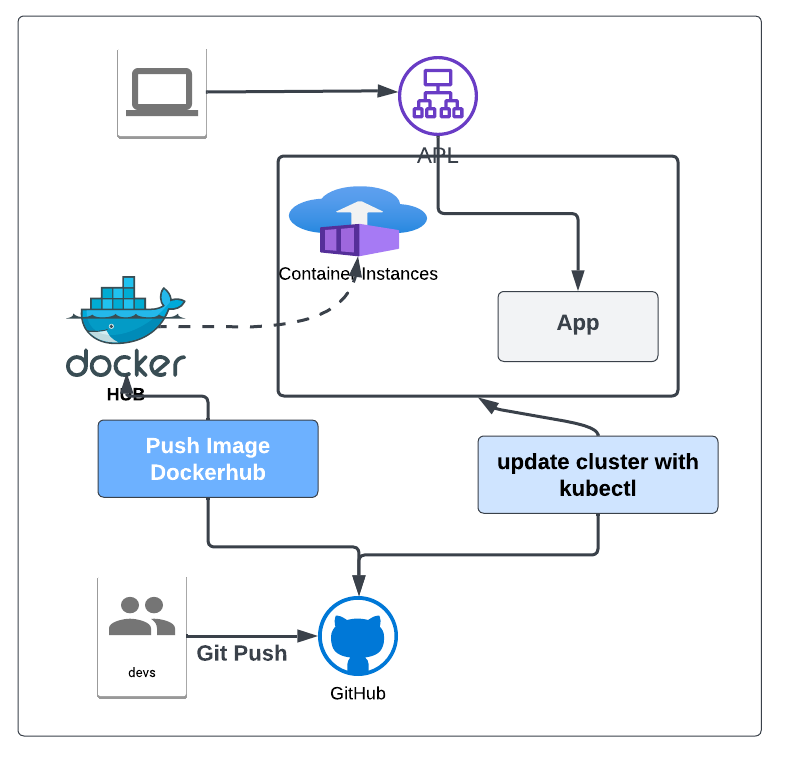
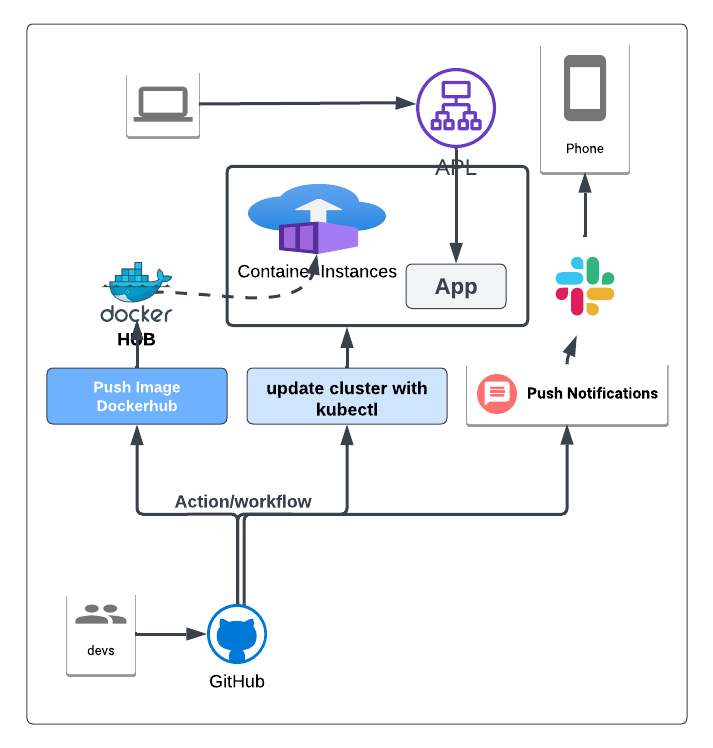
Test branch (#5)
* Destroy cluster

* Hot Fix

* Chore: ML model test

* Doc: Update project digram

* Doc: Update project digram

* Doc: Update project digram

* Workflow: rds infrastructure deployment

* Workflow: rds infrastructure deployment

* Workflow: rds infrastructure deployment

* Workflow: rds infrastructure deployment

* Terraform Hot fix

* Terraform Hot fix

* Terraform Hot fix

* Terraform Hot fix

* Terraform Hot fix

* Terraform rds fix

* Terraform rds fix

* Workflow: delete resources

* Workflow: delete resources

* Chore: Terraform resources validation

* Chore: Project description

* Makefile: testing command update

* Chore: application deployment

* Chore: deploy application

* Chore: deploy application

* chore: preview application url

* chore: preview application url

* chore: preview application url

* Chore: update deployment with version

* Chore: update deployment with version

* Doc: updated infrastructure diagram

* Chore: destroy infrastructure

* Chore: deploy infrastructure

* Chore: infrastructure deployment

* Chore: app deployment to eks

* Chore: update infrastructure

* Chore: update application

* quick fix

* hot fix

* Hot fix

---------

diff --git a/ml_app/app.py b/ml_app/app.py
@@ -2,9 +2,17 @@ from flask import Flask, request, jsonify
 from flask.logging import create_logger
 import logging
 
+
 import pandas as pd
 from sklearn.externals import joblib
 from sklearn.preprocessing import StandardScaler
+
+
+from dotenv import load_dotenv
+load_dotenv()
+
+import os
+VERSION = os.getenv("VERSION")
 
 app = Flask(__name__)
 LOG = create_logger(app)
@@ -20,7 +28,12 @@ def scale(payload):
 
 @app.route("/")
 def home():
-    html = f"<h3>Sklearn Prediction Home</h3>"
+    html = f"""
+    <div style="text-align:center; padding: 50px"> 
+    <h2>Sklearn Prediction Home Updated. </h2>
+    <h3 style="color:#808080"> Version:{VERSION}</h3>
+    </div>
+    """
     return html.format(format)
 
 @app.route("/predict", methods=['POST'])

diff --git a/ml_app/test_sample/test_sample.py b/ml_app/test_sample/test_sample.py
@@ -1,0 +1,7 @@
+# content of test_sample.py
+def func(x):
+    return x + 1
+
+
+def test_answer():
+    assert func(3) == 4

diff --git a/TaskReadme.md b/TaskReadme.md
@@ -49,7 +49,7 @@ To design a scalable and secure continuous delivery architecture for the full-st
         For monitoring, use Amazon CloudWatch to collect and visualize metrics for your application, database, and infrastructure. Configure custom CloudWatch dashboards to display relevant historical metrics for debugging bottlenecks.
         Implement application-level monitoring using AWS X-Ray to trace requests and identify performance bottlenecks within your application code.
 
-### solution 2 using aws eks
+### solution 2 using aws eks and terraform
 
 Architecture Tiers:
 Application Tier: Deploy your application as containerized workloads on AWS EKS. EKS provides a managed Kubernetes control plane and makes it easier to scale and manage containerized applications.

diff --git a/README.md b/README.md
@@ -1,7 +1,8 @@
 ## HousePriceAI
 
 In this project, we aim to operationalize a machine learning microservice API that predicts housing prices in Boston. We have a pre-trained sklearn model that takes various features into account, such as average rooms, highway access, and teacher-to-pupil ratios, to estimate house prices. The project focuses on containerizing the Python Flask application, app.py, which serves predictions through API calls.
-![](./assets/project.png)
+
+## ![](./assets/project.png)
 
 ### Github workflow
 
